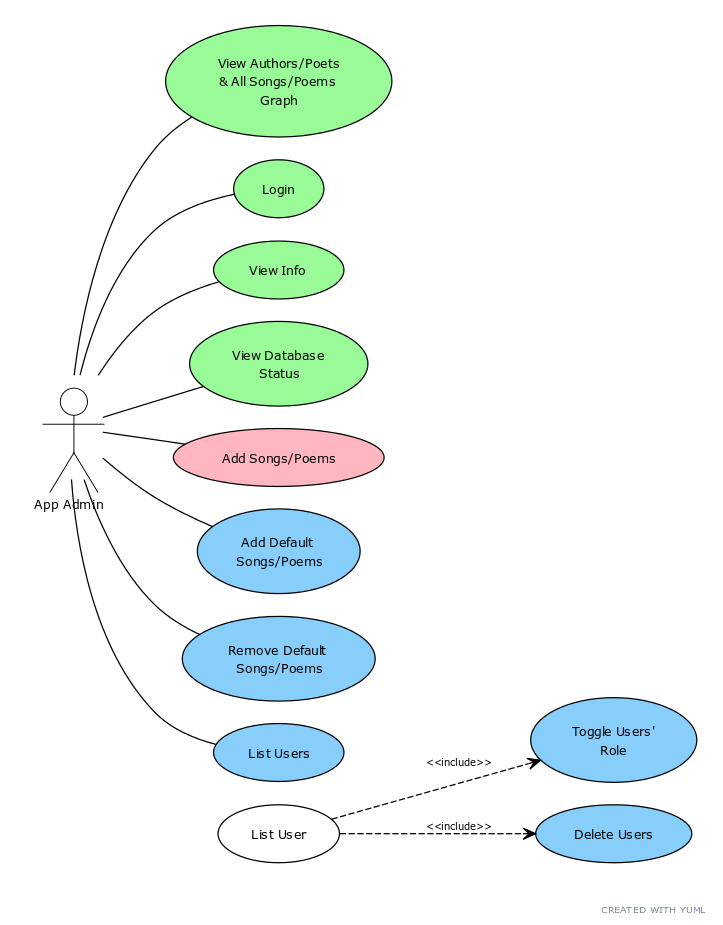
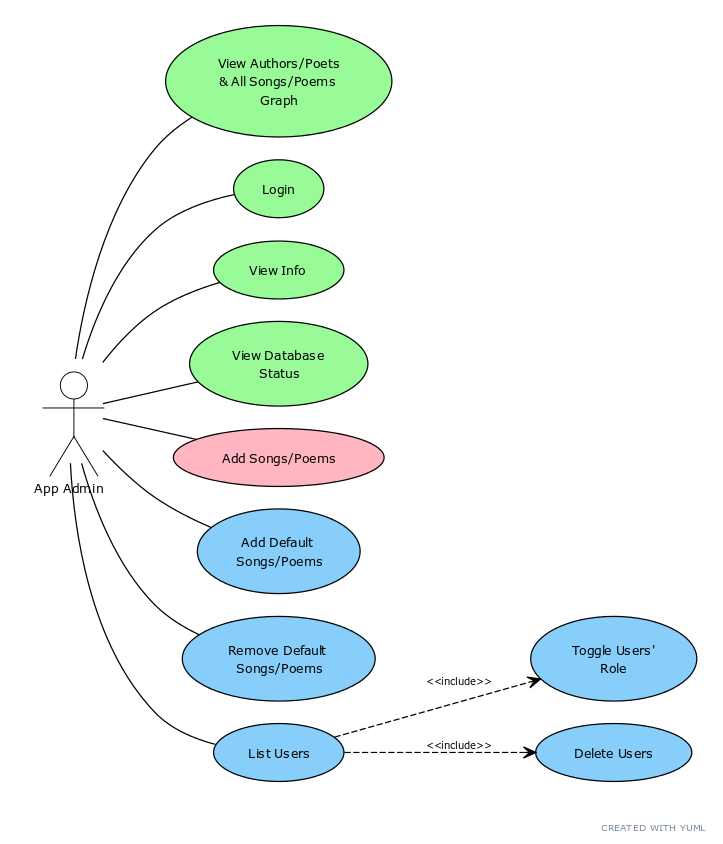
Use case diagrams fix
Corrected minor faults in use case diagrams.

diff --git a/README.md b/README.md
@@ -10,7 +10,7 @@ Sovellus hyödyntää *Natural Language Toolkit* -nimistä palvelua ([NLTK](http
 
 *Stopwordsit* kullekin kielelle on noudettu [Count Words Free](https://countwordsfree.com/)-nimiseltä sivustolta ja modifioitu itse. Ne ovat ns. turhia sanoja, kuten suomen *ja, jos, koska, kuin, mutta, niin, sekä, ...*, ja halutessaan käyttäjä voi poistaa ne tulosdatasta. NLTK:n soveltamiseen on otettu mallia sivuston [*Real Python*](https://realpython.com/flask-by-example-part-1-project-setup/) Flask-esimerkkiprojektista.
 
-Sovellukseen on asetettu valmiiksi kuusi oletuslaulua kustakin kolmesta kielestä sekä 374 runoa 1800-luvun runoilijoilta. Kun sovelluksen käynnistää ensimmäisen kerran ja tietokantataulut syntyvät, tulee laulut syöttää tauluihin. Tämä onnistuu kirjautumalla admin-tunnuksilla sisään, jolloin sivun alapalkissa näkyvät napit: *List users*, *Add default songs*, *Remove default songs*, *Add default poems* ja **Remove default poems**. Vihreistä napeista painamalla saa ladattua laulut ja niiden tekijät sekä runot ja runoilijat. Laulut ja runot syötetään automaattisesti omiin tauluihinsa sekä liitostiedot liitostauluihinsa. Samoin ne saa tarvittaessa poistettua punaisista napeista.
+Sovellukseen on asetettu valmiiksi kuusi oletuslaulua kustakin kolmesta kielestä sekä 374 runoa 1800-luvun runoilijoilta. Kun sovelluksen käynnistää ensimmäisen kerran ja tietokantataulut syntyvät, tulee laulut syöttää tauluihin. Tämä onnistuu kirjautumalla admin-tunnuksilla sisään, jolloin sivun alapalkissa näkyvät napit: *List users*, *Add default songs*, *Remove default songs*, *Add default poems* ja *Remove default poems*. Vihreistä napeista painamalla saa ladattua laulut ja niiden tekijät sekä runot ja runoilijat. Laulut ja runot syötetään automaattisesti omiin tauluihinsa sekä liitostiedot liitostauluihinsa. Samoin ne saa tarvittaessa poistettua punaisista napeista.
 
 Löydät sovelluksen osoitteesta [lyrfreq.herokuapp.com](https://lyrfreq.herokuapp.com/).
 

diff --git a/documentation/user_stories.md b/documentation/user_stories.md
@@ -67,7 +67,7 @@ Tekstiesimerkkejä käyttötapauksesta *rekisteröityminen*
 
 ## Sovelluksen käyttötapauskaavio
 
-<img src="https://user-images.githubusercontent.com/46410240/84679098-83f3a180-af39-11ea-91ce-077025d41808.png" alt="use case" >
+<img src="https://user-images.githubusercontent.com/46410240/84689243-5c0c3a00-af49-11ea-9d91-a1b9347b5c7f.png" alt="use case" >
 
 Värikoodien merkitys:
 - vihreä on kaikille käyttäjärooleille sallittu
@@ -78,8 +78,8 @@ Kuva ei ole kovin selkeä, joten alla vielä kuvat erikseen kunkin käyttäjäro
 
 ### Käyttötapauskaaviot erikseen kullekin roolille
 
-<img src="https://user-images.githubusercontent.com/46410240/84679127-9077fa00-af39-11ea-8f29-19e063a01482.png" alt="use case admin" >
+<img src="https://user-images.githubusercontent.com/46410240/84689296-7514eb00-af49-11ea-8816-28baf8dd81df.png" alt="use case admin" >
 
-<img src="https://user-images.githubusercontent.com/46410240/84679158-9cfc5280-af39-11ea-9753-115d91b91b74.png" alt="use case guest" >
+<img src="https://user-images.githubusercontent.com/46410240/84689327-7e05bc80-af49-11ea-9b18-43403422fe9b.png" alt="use case guest" >
 
-<img src="https://user-images.githubusercontent.com/46410240/84679187-a71e5100-af39-11ea-974a-c8b4cd1c2b26.png" alt="use case user" >
+<img src="https://user-images.githubusercontent.com/46410240/84689350-865df780-af49-11ea-8f83-9eb59597e45f.png" alt="use case user" >
